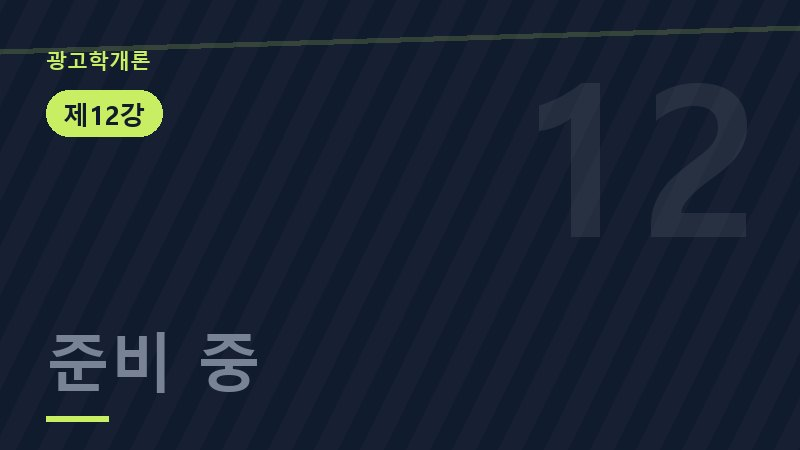
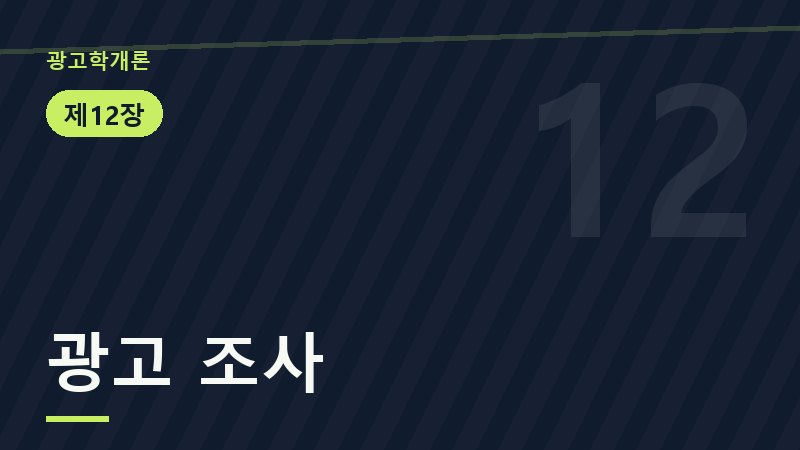
Prepare advertising chapter 10-14 title thumbnails

Changed region(s): [[0.0625, 0.7156, 0.2188, 0.8711], [0.25, 0.7156, 0.4062, 0.8711], [0.1562, 0.2178, 0.1875, 0.28]]

diff --git a/courses/03-advertising/course.js b/courses/03-advertising/course.js
@@ -47,9 +47,9 @@ window.COURSE = {
     { v: "Xt6dDjR99UI", t: "제7장 광고와 커뮤니케이션" },
     { v: "IT8wFsc3cmE", t: "제8장 광고 목표와 예산 설정" },
     { v: "BmuYCVArji8", t: "제9장 광고 크리에이티브 전략" },
-    { v: "", t: "" },
-    { v: "", t: "" },
-    { v: "", t: "" },
-    { v: "", t: "" },
-    { v: "", t: "" },
+    { v: "", t: "제10장 광고 매체 전략" },
+    { v: "", t: "제11장 광고 매체의 특성" },
+    { v: "", t: "제12장 광고 조사" },
+    { v: "", t: "제13장 광고규제" },
+    { v: "", t: "제14장 광고의 미래" },
   ],};
